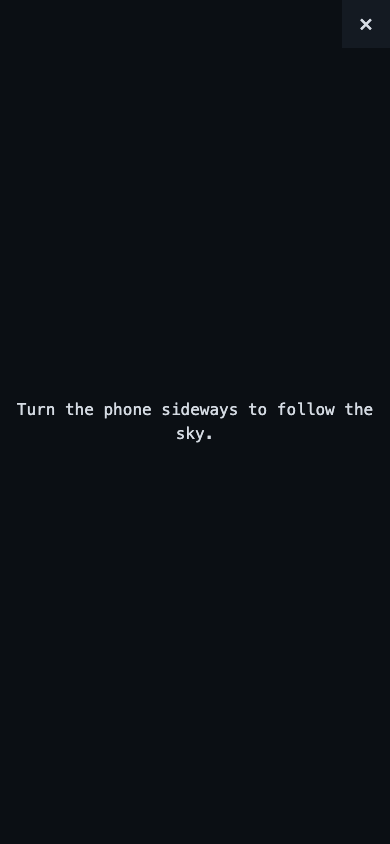
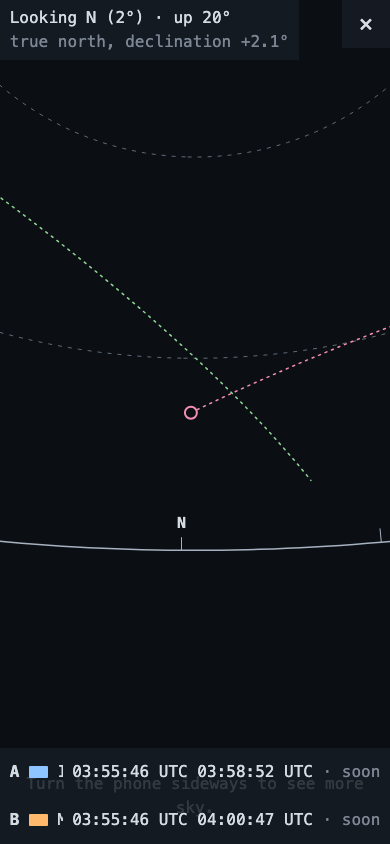
R73: the capture set carries the picture upright and the turn (FR-FSC-7)
The four sky-screen-portrait shots are re-shot with the drawing, the
readout, the legend and the advice line in them instead of a note, and
sky-screen-turned is added at 390 x 844 in one theme and one language:
the layer turned a quarter under a rotation lock, which is a geometry and
not a piece of copy. CaptureScreen gains optional themes/locales for
that, and captures.test.ts counts per screen.

diff --git a/tests/e2e/v1-captures.spec.ts b/tests/e2e/v1-captures.spec.ts
@@ -107,7 +107,7 @@ const FULL_PAGE = new Set(['location', 'home', 'settings']);
  * touch panel. Playwright grants touch per context, so these tests need a
  * `test.use` of their own and the rest of the set must not have it.
  */
-const TOUCH = new Set(['window', 'sky-screen-sky', 'sky-screen-ground', 'sky-screen-buried', 'sky-screen-portrait']);
+const TOUCH = new Set(['window', 'sky-screen-sky', 'sky-screen-ground', 'sky-screen-buried', 'sky-screen-portrait', 'sky-screen-turned']);
 
 const VIEW_GROUP = { en: 'Chart view', es: 'Vista del gráfico' } as const;
 const WINDOW_OPTION = { en: 'Window', es: 'Ventana' } as const;
@@ -284,10 +284,16 @@ async function settle(page: Page): Promise<void> {
  *
  * `sky` is turned to where the pass is, as `live-following` was: a picture with
  * an arc in it is worth more than an empty sky. The two ground states are swept
- * down the look's own azimuth. `portrait` is the phone held upright, where
- * FR-FSC-4 says there is nothing to aim.
+ * down the look's own azimuth.
+ *
+ * R73 (FR-FSC-4 as rewritten, FR-FSC-7 as amended, FR-FSC-10, FR-FSC-11):
+ * `portrait` is the phone held upright, which since v1.4.1 is a picture and not
+ * a note — the same aim as `sky`, in the portrait box, with the advice line
+ * over it — and `turned` is the phone held sideways while the viewport stays
+ * upright, which is what a rotation lock does: the pose says 90, the layer
+ * turns, and the picture is landscape inside a portrait viewport.
  */
-type FollowState = 'sky' | 'ground' | 'buried' | 'portrait';
+type FollowState = 'sky' | 'ground' | 'buried' | 'portrait' | 'turned';
 
 async function followScreen(page: Page, width: CaptureWidth, theme: CaptureTheme, locale: CaptureLocale, state: FollowState): Promise<void> {
   await stubCompass(page);
@@ -307,20 +313,38 @@ async function followScreen(page: Page, width: CaptureWidth, theme: CaptureTheme
   // FR-FSC-1: none of the live page is under the layer any more — the rows are not rendered at all.
   await expect(page.getByTestId('stripe-block')).toHaveCount(0);
   await expect(page.getByTestId('sky-screen-close')).toBeVisible();
-  if (state === 'portrait') {
-    await expect(page.getByTestId('window-portrait-note')).toBeVisible();
+  const drawing = page.locator('[data-look-az]');
+  await expect(drawing).toBeAttached();
+  if (state === 'turned') {
+    /*
+     * The pose of a phone held sideways on a viewport that never reflows — a rotation lock. `gamma: -90` puts
+     * the room's up along the device's +X, which is its top to the reader's left and the browser's angle 90 on
+     * a phone that is free to turn; the extra 20° raises the look that far above the horizon, as `point` does
+     * for the upright poses. `alpha` is swept for the same reason `sky` sweeps the azimuth: a picture with an
+     * arc in it is worth more than an empty sky.
+     */
+    for (const alpha of [0, 30, 60, 90, 120, 150, 180, 210, 240, 270, 300, 330]) {
+      await page.evaluate((a) => {
+        window.dispatchEvent(new DeviceOrientationEvent('deviceorientationabsolute', { alpha: a, beta: 0, gamma: -110, absolute: true }));
+      }, alpha);
+      await settle(page);
+      if ((await page.locator('[data-drawing="window"] [data-pass-id]').count()) > 0) break;
+    }
+    await expect(page.getByTestId('sky-screen')).toHaveAttribute('data-turn', '90');
+    await expect(drawing).toHaveAttribute('data-orientation', 'landscape');
+    await expect(drawing).toHaveAttribute('data-ground', 'sky');
     await page.mouse.move(0, 0);
     return;
   }
-  const drawing = page.locator('[data-look-az]');
-  await expect(drawing).toBeAttached();
-  if (state === 'sky') {
+  if (state === 'sky' || state === 'portrait') {
     for (const azDeg of [0, 30, 60, 90, 120, 150, 180, 210, 240, 270, 300, 330]) {
       await point(page, azDeg, 20);
       await settle(page);
       if ((await page.locator('[data-drawing="window"] [data-pass-id]').count()) > 0) break;
     }
     await expect(drawing).toHaveAttribute('data-ground', 'sky');
+    // FR-FSC-11: upright, the advice stands over that picture — which is what the portrait shot is of.
+    if (state === 'portrait') await expect(page.getByTestId('window-turn-note')).toBeVisible();
   } else {
     // Down the look's own azimuth, so the sky the `ground` state still holds is the sky the reader was in.
     const azDeg = Number(await drawing.getAttribute('data-look-az'));
@@ -522,6 +546,11 @@ const REACH: Record<string, Reach> = {
   async 'sky-screen-portrait'(page, width, theme, locale) {
     await followScreen(page, width, theme, locale, 'portrait');
   },
+
+  /** R73 (FR-FSC-7 as amended, FR-FSC-10): the rotation-locked phone held sideways, with the layer turned. */
+  async 'sky-screen-turned'(page, width, theme, locale) {
+    await followScreen(page, width, theme, locale, 'turned');
+  },
 };
 
 /** One test per capture: reach the screen, prove the seed took, shoot the file. */
@@ -529,8 +558,9 @@ function shoot(screen: (typeof SCREENS)[number]): void {
   const reach = REACH[screen.name];
   if (!reach) throw new Error(`no route to the ${screen.name} screen`);
   for (const width of screen.widths) {
-    for (const theme of THEMES) {
-      for (const locale of LOCALES) {
+    // R73 (FR-FSC-7 as amended): a screen may name fewer variants than there are; all of them is the default.
+    for (const theme of screen.themes ?? THEMES) {
+      for (const locale of screen.locales ?? LOCALES) {
         test(`${screen.name} at ${String(width)} px, ${theme}, ${locale}`, async ({ page }) => {
           await reach(page, width, theme, locale);
           await expect(page.locator('html')).toHaveAttribute('data-theme', theme);

diff --git a/tests/e2e/captureSet.ts b/tests/e2e/captureSet.ts
@@ -49,6 +49,15 @@
  * `[ list (n) ]` panel, open, since on the compact live page the legend is not
  * on the page until the reader taps for it. Neither screen leaves the set.
  *
+ * R73 (SPEC v1.4.1, FR-FSC-7 as amended; V14-9, V14-10): the portrait pair is
+ * not a picture of a note any more — at 390 × 844 the screen draws, and the
+ * shot is the picture with FR-FSC-11's line over it — and one shot is added
+ * for the turn, `sky-screen-turned`, where a rotation-locked phone held
+ * sideways has the layer turned under it (FR-FSC-10). That one is the first
+ * screen in the set with fewer variants than the matrix: what it shows is a
+ * geometry, and a geometry is the same picture in either theme and either
+ * language, so it is shot at one of each.
+ *
  * R60 (SPEC §9 Phase 2c): v1.2 added two states the window can be in (FR-FOL-5,
  * R56) and one the live page can be in (FR-FOL-1, R59), so `window-ground` and
  * `window-buried` join `window` and `live-following` joins `live` — a state
@@ -92,6 +101,16 @@ export interface CaptureScreen {
   readonly widths: readonly CaptureWidth[];
   /** What a reviewer should be looking at. Repeated in the PR body. */
   readonly what: string;
+  /**
+   * R73 (SPEC v1.4.1, FR-FSC-7 as amended; V14-10): fewer than all of them,
+   * for a screen whose subject is a geometry and not a piece of copy or a
+   * colour. `sky-screen-turned` is the one: what it shows is the layer turned
+   * a quarter under a rotation lock (FR-FSC-10), which is the same picture in
+   * either theme and either language, so it is shot once. Absent means the
+   * whole matrix, which is what every other screen is.
+   */
+  readonly themes?: readonly CaptureTheme[];
+  readonly locales?: readonly CaptureLocale[];
 }
 
 /**
@@ -122,7 +141,18 @@ export const SCREENS: readonly CaptureScreen[] = [
   },
   { name: 'sky-screen-ground', widths: [844], what: 'The same screen swept 10° below the horizon (FR-FOL-5): the hatch fills the ground and the sky above it keeps drawing, under the same three overlays.' },
   { name: 'sky-screen-buried', widths: [844], what: 'The same screen swept 60° below the horizon (FR-FOL-5): no sky is left in the field, and the box is the hatched panel with its note — the `×` is still the way out.' },
-  { name: 'sky-screen-portrait', widths: [390], what: 'The sky screen with the phone held upright (FR-FSC-4, US-21 AC12): the note asking for the phone to be turned, and the `×`, and nothing else — no drawing, no readout, no legend.' },
+  {
+    name: 'sky-screen-portrait',
+    widths: [390],
+    what: 'The sky screen with the phone held upright (FR-FSC-4 as rewritten, FR-FSC-11, US-21 AC12 as amended, R73): the picture drawn in the portrait box — the drawing, the `×`, the readout and the legend — with one line of advice over it about what a sideways phone buys. It was a note with nothing behind it until v1.4.1.',
+  },
+  {
+    name: 'sky-screen-turned',
+    widths: [390],
+    themes: ['dark'],
+    locales: ['en'],
+    what: 'The same 390 × 844 viewport with the pose of a phone held sideways under a rotation lock (FR-FSC-10, US-21 AC15, R73): the layer has turned a quarter, so the picture is landscape inside a portrait viewport and the readout, the legend and the `×` are the right way up to the reader\'s eye. One theme and one language: the turn is a geometry, not a piece of copy.',
+  },
 ];
 
 export const CAPTURE_DIR = 'docs/screenshots';
@@ -140,6 +170,8 @@ export interface Capture {
 /** The whole matrix, in a stable order. */
 export function captureSet(): Capture[] {
   return SCREENS.flatMap((screen) =>
-    screen.widths.flatMap((width) => THEMES.flatMap((theme) => LOCALES.map((locale) => ({ screen, width, theme, locale, file: captureName(screen.name, width, theme, locale) })))),
+    screen.widths.flatMap((width) =>
+      (screen.themes ?? THEMES).flatMap((theme) => (screen.locales ?? LOCALES).map((locale) => ({ screen, width, theme, locale, file: captureName(screen.name, width, theme, locale) }))),
+    ),
   );
 }

diff --git a/tests/docs/captures.test.ts b/tests/docs/captures.test.ts
@@ -22,21 +22,25 @@ describe('the v1 capture set', () => {
     // F-50 (R37): the variants are counted, not remembered. The hard-coded `* 4` was the two
     // themes times the two languages, so a third theme or a third language would have been a set
     // this test called complete while a quarter of it was missing.
-    const variants = THEMES.length * LOCALES.length;
-    expect(captureSet()).toHaveLength(SCREENS.reduce((total, screen) => total + screen.widths.length * variants, 0));
+    // R73 (FR-FSC-7 as amended): a screen may name fewer themes or languages than there are — `sky-screen-turned`
+    // is a geometry and the same picture in all four — so the count is per screen and the default is still all.
+    expect(captureSet()).toHaveLength(SCREENS.reduce((total, screen) => total + screen.widths.length * (screen.themes ?? THEMES).length * (screen.locales ?? LOCALES).length, 0));
+    expect(SCREENS.filter((screen) => screen.themes ?? screen.locales).map((screen) => screen.name)).toEqual(['sky-screen-turned']);
     /*
      * Every screen is on the phone and on the wide layout; nothing is desktop-only or phone-only.
      *
      * R64 (FR-FSC-7), widened by R66 (V13-6, V13-9), is the one exception, and it is an exception because
      * the app is: the sky screen is reached by the view control's "window", which is offered only where
-     * FR-WIN-4's presence test passes — never on a desktop — and it is drawn only with the phone held
-     * sideways (FR-FSC-4). So its widths are the landscape phone for the drawing and the portrait phone
-     * for the note, and a 1280 px file would be a picture of a screen no reader can be on. `window`, the
-     * same screen opened from a pass detail, is in the exception for the same reason.
+     * FR-WIN-4's presence test passes — never on a desktop. So its widths are the phone's two, the
+     * landscape one for the states the reader holds it sideways for and the portrait one for the two R73
+     * added (the picture upright, and the layer turned under a rotation lock), and a 1280 px file would be
+     * a picture of a screen no reader can be on. `window`, the same screen opened from a pass detail, is in
+     * the exception for the same reason.
      */
+    const UPRIGHT = new Set(['sky-screen-portrait', 'sky-screen-turned']);
     for (const screen of SCREENS) {
       if (screen.name.startsWith('sky-screen-') || screen.name === 'window') {
-        expect(screen.widths, screen.name).toEqual(screen.name === 'sky-screen-portrait' ? [390] : [844]);
+        expect(screen.widths, screen.name).toEqual(UPRIGHT.has(screen.name) ? [390] : [844]);
         continue;
       }
       expect(screen.widths, screen.name).toContain(390);
